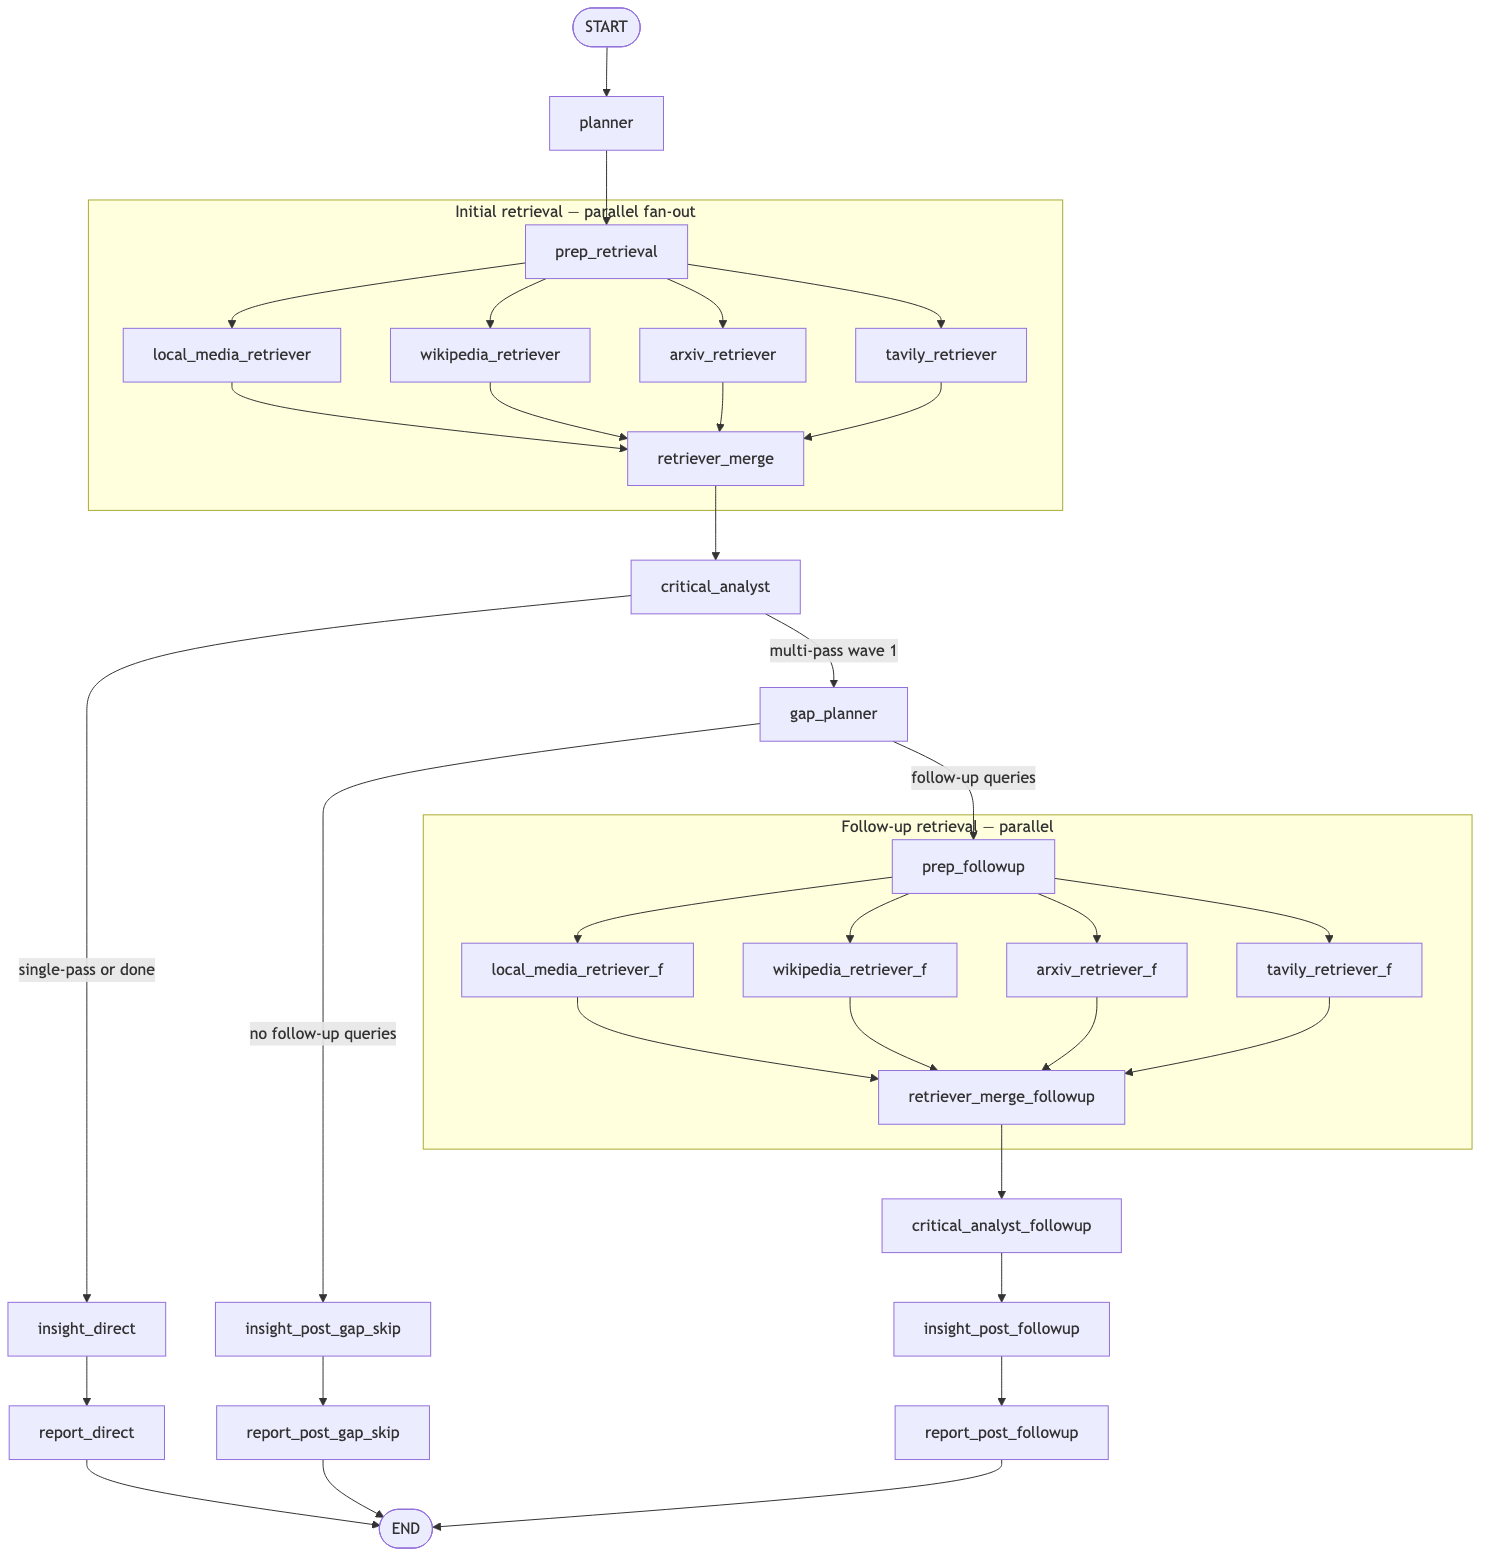
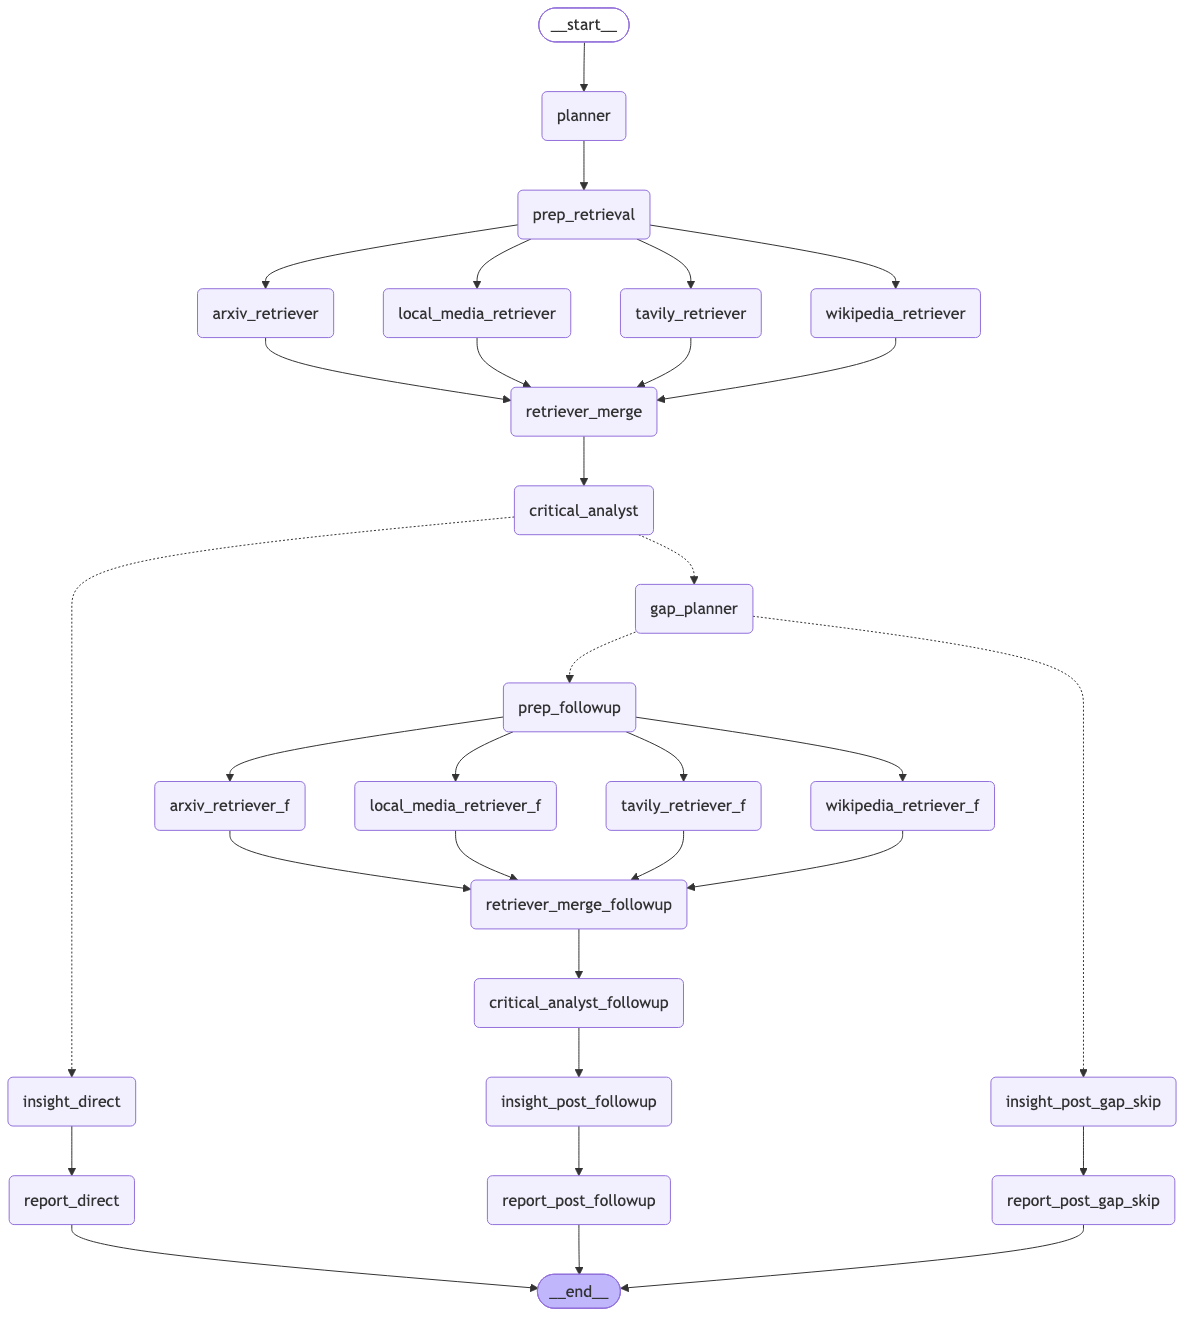
Fix NovaMind UI contrast, research trace handoff, and upload feedback
- High-contrast tab and report markdown headings for dark theme (Gradio 5/6)
- Yield Trace tab before graph build; keep Run/Review visible with loading labels
- Queue with higher concurrency; upload-in-progress message when temp file not ready
- Minimal progress on Review and Run; reset button labels after research completes
- Update GRAPH.md and langgraph topology image

Made-with: Cursor

diff --git a/group_12/ai-researcher/app.py b/group_12/ai-researcher/app.py
@@ -29,6 +29,9 @@ OPENROUTER_MODEL_PRESETS: list[str] = [
 # Tab order (left to right): Human review → Report → Sources → Trace & gaps
 TAB_HUMAN, TAB_REPORT, TAB_SOURCES, TAB_TRACE = 0, 1, 2, 3
 
+REVIEW_BUTTON_LABEL = "Review uploads & question"
+RUN_RESEARCH_BUTTON_LABEL = "Run full research"
+
 _APP_DIR = Path(__file__).resolve().parent
 LOGO_PATH = _APP_DIR / "assets" / "novamind-logo.png"
 
@@ -185,19 +188,44 @@ NOVAMIND_CSS = """
 
 .gradio-tabs { margin-top: 0 !important; }
 .gradio-tab-nav { gap: 0.35rem !important; border-bottom: 1px solid var(--nm-border) !important; padding-bottom: 0.45rem !important; margin-bottom: 0.65rem !important; flex-wrap: wrap !important; }
-.gradio-tab-nav button {
-  /* Slightly brighter than body muted text so inactive tabs stay readable on dark chrome */
-  color: #aebccf !important; border: none !important; background: transparent !important;
-  font-weight: 500 !important; font-size: 0.84rem !important; padding: 0.4rem 0.8rem !important; border-radius: 8px !important;
+/* Gradio 5/6: tab labels must stay high-contrast on near-black backgrounds */
+.gradio-tab-nav button,
+.nm-tabs-shell [role="tab"] {
+  color: #d8e3f0 !important;
+  border: none !important; background: transparent !important;
+  font-weight: 500 !important; font-size: 0.86rem !important; padding: 0.45rem 0.85rem !important; border-radius: 8px !important;
   opacity: 1 !important;
 }
-.gradio-tab-nav button.selected { color: var(--nm-text) !important; background: var(--nm-accent-dim) !important; box-shadow: inset 0 0 0 1px rgba(34, 211, 238, 0.35) !important; }
+.gradio-tab-nav button.selected,
+.nm-tabs-shell [role="tab"][aria-selected="true"] {
+  color: #f8fafc !important;
+  background: var(--nm-accent-dim) !important;
+  box-shadow: inset 0 0 0 1px rgba(34, 211, 238, 0.45) !important;
+}
 /* While a job runs, Gradio may add .pending or disable tab controls — avoid unreadable dimming.
    Do NOT use :has() on .gradio-container — it forces constant descendant scans and can freeze the tab. */
 .gradio-container.pending .gradio-tab-nav button:not(.selected),
-.gradio-tab-nav button:disabled {
-  color: #c5d0df !important; opacity: 0.95 !important;
+.gradio-container.pending .nm-tabs-shell [role="tab"]:not([aria-selected="true"]),
+.gradio-tab-nav button:disabled,
+.nm-tabs-shell [role="tab"][aria-disabled="true"] {
+  color: #e2e8f0 !important; opacity: 0.98 !important;
 }
+
+/* Report / markdown: model output often uses ## headers — Gradio prose defaults can be near-black */
+.nm-main .prose h1, .nm-main .prose h2, .nm-main .prose h3, .nm-main .prose h4, .nm-main .prose h5, .nm-main .prose h6,
+.report-citations-prose .prose h1, .report-citations-prose .prose h2, .report-citations-prose .prose h3,
+.report-citations-prose .prose h4, .report-citations-prose .prose h5, .report-citations-prose .prose h6,
+.nm-main .markdown h1, .nm-main .markdown h2, .nm-main .markdown h3, .nm-main .markdown h4,
+.report-citations-prose h1, .report-citations-prose h2, .report-citations-prose h3 {
+  color: #eef2f8 !important;
+  font-weight: 600 !important;
+}
+.nm-main .prose strong, .report-citations-prose .prose strong { color: #f1f5f9 !important; }
+.nm-main .prose hr, .report-citations-prose .prose hr { border-color: rgba(100, 180, 255, 0.25) !important; }
+.nm-main .prose blockquote, .report-citations-prose .prose blockquote {
+  color: #c5d2e3 !important; border-left-color: var(--nm-accent) !important;
+}
+.nm-main .prose li::marker, .report-citations-prose .prose li::marker { color: var(--nm-accent) !important; }
 
 .gradio-container textarea, .gradio-container input[type="text"], .gradio-container input[type="password"] {
   background: var(--nm-elevated) !important; border: 1px solid var(--nm-border) !important;
@@ -225,7 +253,8 @@ NOVAMIND_CSS = """
 }
 #nm-trace-panel em, #nm-gaps-panel em { color: var(--nm-muted) !important; }
 
-.report-citations-prose { line-height: 1.65; max-width: 100%; color: var(--nm-text); }
+.report-citations-prose { line-height: 1.65; max-width: 100%; color: var(--nm-text) !important; }
+.report-citations-prose .markdown, .report-citations-prose .prose, .report-citations-prose p { color: var(--nm-text) !important; }
 .report-citations-prose a {
   display: inline-flex; align-items: center; background: var(--nm-elevated);
   padding: 0.15rem 0.55rem 0.18rem; border-radius: 999px; font-size: 0.78rem; font-weight: 500;
@@ -337,6 +366,18 @@ def on_files_updated(files):
     paths = collect_upload_paths(files)
     if not paths:
         return "_No files attached. Upload PDFs, images, or audio when you are ready._"
+    # Gradio may emit change before each temp path is fully written (common on large uploads).
+    for p in paths:
+        try:
+            if not Path(p).is_file():
+                return (
+                    "_**Upload in progress.**_ The browser is still transferring this file; the summary will "
+                    "refresh when the server has the full copy. Very large files can take a minute._"
+                )
+        except OSError:
+            return (
+                "_**Upload in progress.**_ Waiting for the file to become available on the server._"
+            )
     pdfs, images, audios, skipped = _classify_local_paths(paths)
     names = [Path(p).name for p in paths[:12]]
     more = " …" if len(paths) > 12 else ""
@@ -446,6 +487,9 @@ def run_preflight_review(
         raise gr.Error(str(exc)) from exc
 
     steps: list[str] = []
+    _rb_busy = gr.update(interactive=False, value="⏳ Review in progress…")
+    _rb_idle = gr.update(interactive=True, value=REVIEW_BUTTON_LABEL)
+
     steps.append(f"Using {_llm_backend_label(settings)} for alignment check.")
     steps.append("Validating question and classifying uploads…")
     yield (
@@ -454,6 +498,7 @@ def run_preflight_review(
         gr.update(visible=False),
         gr.update(selected=TAB_TRACE),
         _preflight_trace_block(steps),
+        _rb_busy,
     )
 
     paths = collect_upload_paths(files)
@@ -464,6 +509,7 @@ def run_preflight_review(
         gr.update(visible=False),
         gr.update(selected=TAB_TRACE),
         _preflight_trace_block(steps),
+        _rb_busy,
     )
 
     try:
@@ -475,6 +521,7 @@ def run_preflight_review(
             gr.update(visible=False),
             gr.update(selected=TAB_TRACE),
             _preflight_trace_block(steps),
+            _rb_busy,
         )
         analysis = llm_preflight_analysis(q, digest, settings)
         md = assemble_preflight_markdown(digest, analysis)
@@ -486,10 +533,11 @@ def run_preflight_review(
     steps.append("Preflight complete — open **Human review** to read the summary.")
     yield (
         md,
-        gr.update(visible=True),
+        gr.update(visible=True, interactive=True, value=RUN_RESEARCH_BUTTON_LABEL),
         gr.update(visible=True),
         gr.update(selected=TAB_HUMAN),
         _preflight_trace_block(steps),
+        _rb_idle,
     )
 
 
@@ -559,6 +607,31 @@ def run_research_after_confirm(
     except ValueError as exc:
         raise gr.Error(str(exc)) from exc
 
+    _run_busy = gr.update(visible=True, interactive=False, value="⏳ Running full research…")
+    _run_hide = gr.update(visible=False)
+    _review_busy = gr.update(interactive=False, value="⏳ Research running…")
+    _review_idle = gr.update(interactive=True, value=REVIEW_BUTTON_LABEL)
+
+    # Yield immediately so the Trace tab + trace panel update before graph compilation (can be slow).
+    yield (
+        gr.skip(),
+        gr.skip(),
+        gr.skip(),
+        gr.skip(),
+        (
+            f"## Research run\n\n"
+            f"- Backend: {_llm_backend_label(settings)}\n"
+            f"- _Switching to **Trace & gaps** — preparing the LangGraph orchestrator…_\n"
+        ),
+        gr.skip(),
+        gr.skip(),
+        gr.skip(),
+        _run_busy,
+        _run_hide,
+        gr.update(selected=TAB_TRACE),
+        _review_busy,
+    )
+
     graph = build_graph(settings)
     local_paths = collect_upload_paths(files)
 
@@ -578,7 +651,7 @@ def run_research_after_confirm(
     boot_trace = (
         f"## Research run\n\n"
         f"- Backend: {_llm_backend_label(settings)}\n"
-        f"- _Compiling graph and starting LangGraph stream…_\n"
+        f"- _Graph ready — streaming LangGraph steps below._\n"
     )
     yield (
         gr.skip(),
@@ -589,9 +662,10 @@ def run_research_after_confirm(
         gr.skip(),
         gr.skip(),
         gr.skip(),
-        gr.update(visible=False),
-        gr.update(visible=False),
+        _run_busy,
+        _run_hide,
         gr.update(selected=TAB_TRACE),
+        _review_busy,
     )
 
     last_state: dict = initial_state
@@ -610,9 +684,10 @@ def run_research_after_confirm(
                     gr.skip(),
                     gr.skip(),
                     gr.skip(),
-                    gr.update(visible=False),
-                    gr.update(visible=False),
+                    _run_busy,
+                    _run_hide,
                     gr.update(selected=TAB_TRACE),
+                    _review_busy,
                 )
         if not saw_chunk:
             last_state = graph.invoke(initial_state)
@@ -620,11 +695,13 @@ def run_research_after_confirm(
         raise gr.Error(f"Research failed: {exc!s}") from exc
 
     fin = finalize_research_outputs(last_state)
+    _confirm_reset = gr.update(visible=False, interactive=True, value=RUN_RESEARCH_BUTTON_LABEL)
     yield (
         *fin,
-        gr.update(visible=False),
-        gr.update(visible=False),
+        _confirm_reset,
+        _confirm_reset,
         gr.update(selected=TAB_REPORT),
+        _review_idle,
     )
 
 
@@ -792,7 +869,10 @@ def build_ui() -> gr.Blocks:
                             type="filepath",
                         )
                         file_upload_status = gr.Markdown(
-                            value="_No files staged. On upload, NovaMind validates types (PDF / image / audio)._",
+                            value=(
+                                "_No files staged. On upload, NovaMind validates types (PDF / image / audio). "
+                                "Large files (10MB+) may take time in the **browser** before the summary appears._"
+                            ),
                             elem_classes=["nm-file-hint"],
                         )
 
@@ -835,10 +915,10 @@ def build_ui() -> gr.Blocks:
 
                     with gr.Column(elem_classes=["nm-card"]):
                         gr.Markdown("### Run")
-                        review_button = gr.Button("Review uploads & question", variant="primary")
+                        review_button = gr.Button(REVIEW_BUTTON_LABEL, variant="primary")
                         with gr.Row():
                             confirm_yes = gr.Button(
-                                "Run full research", variant="primary", visible=False
+                                RUN_RESEARCH_BUTTON_LABEL, variant="primary", visible=False
                             )
                             confirm_no = gr.Button("Cancel", variant="secondary", visible=False)
 
@@ -930,9 +1010,8 @@ def build_ui() -> gr.Blocks:
         review_button.click(
             fn=run_preflight_review,
             inputs=[question, files, *llm_inputs],
-            outputs=[human_review_md, confirm_yes, confirm_no, main_tabs, trace_md],
-            # Full-screen progress freezes the tab bar and shows a stuck 0.0s timer during long BLIP/LLM work.
-            show_progress=False,
+            outputs=[human_review_md, confirm_yes, confirm_no, main_tabs, trace_md, review_button],
+            show_progress="minimal",
         )
 
         confirm_no.click(
@@ -965,10 +1044,12 @@ def build_ui() -> gr.Blocks:
                 confirm_yes,
                 confirm_no,
                 main_tabs,
+                review_button,
             ],
-            show_progress=False,
+            show_progress="minimal",
         )
 
+    demo.queue(default_concurrency_limit=4)
     return demo
 
 

diff --git a/group_12/ai-researcher/GRAPH.md b/group_12/ai-researcher/GRAPH.md
@@ -2,11 +2,18 @@
 
 This document reflects **`build_graph()`** in [`deep_researcher/graph.py`](./deep_researcher/graph.py): nodes, edges, and routing. For product context see [ARCHITECTURE.md](./ARCHITECTURE.md).
 
-**Rendered PNG (export of diagram §1):**
+**Rendered PNG (matches the compiled `StateGraph` exactly):**
 
 ![LangGraph topology — Phase 2 deep researcher](./docs/images/langgraph_topology.png)
 
-_Source file: [`docs/images/langgraph_topology.mmd`](./docs/images/langgraph_topology.mmd). Regenerate: `cd docs/images && npx -y @mermaid-js/mermaid-cli -i langgraph_topology.mmd -o langgraph_topology.png -w 3600 -H 2800 -b white` (requires a local Chrome/Chromium for Puppeteer)._
+_Authoritative source: [`docs/images/langgraph_topology_compiled.mmd`](./docs/images/langgraph_topology_compiled.mmd) (from `build_graph().get_graph().draw_mermaid()`). **Regenerate everything:**_
+
+```bash
+python scripts/export_langgraph_mermaid.py
+cd docs/images && npx -y @mermaid-js/mermaid-cli -i langgraph_topology_compiled.mmd -o langgraph_topology.png -w 3600 -H 2800 -b white
+```
+
+_(Mermaid CLI needs a local Chrome/Chromium for Puppeteer.) For a hand-drawn flow with subgraphs, see [`docs/images/langgraph_topology.mmd`](./docs/images/langgraph_topology.mmd) (logical layout only; keep in sync with [`deep_researcher/graph.py`](./deep_researcher/graph.py))._
 
 ---
 
@@ -134,7 +141,7 @@ Each chain runs **`insight_node` / `report_node`** with the same implementation;
 
 ## 6. Rendering diagrams
 
-- **Checked-in PNG:** [`docs/images/langgraph_topology.png`](./docs/images/langgraph_topology.png) (from [`langgraph_topology.mmd`](./docs/images/langgraph_topology.mmd)).
+- **Checked-in PNG:** [`docs/images/langgraph_topology.png`](./docs/images/langgraph_topology.png) (from [`langgraph_topology_compiled.mmd`](./docs/images/langgraph_topology_compiled.mmd); regenerate via [`scripts/export_langgraph_mermaid.py`](./scripts/export_langgraph_mermaid.py) + mermaid-cli as in the figure note).
 - **GitHub / GitLab:** Mermaid renders in Markdown preview.
 - **VS Code:** “Markdown Preview Mermaid Support” or similar extension.
 - **Export PNG/SVG:** [Mermaid Live Editor](https://mermaid.live) (paste the fenced blocks) or **@mermaid-js/mermaid-cli** as in the note under the figure above.
